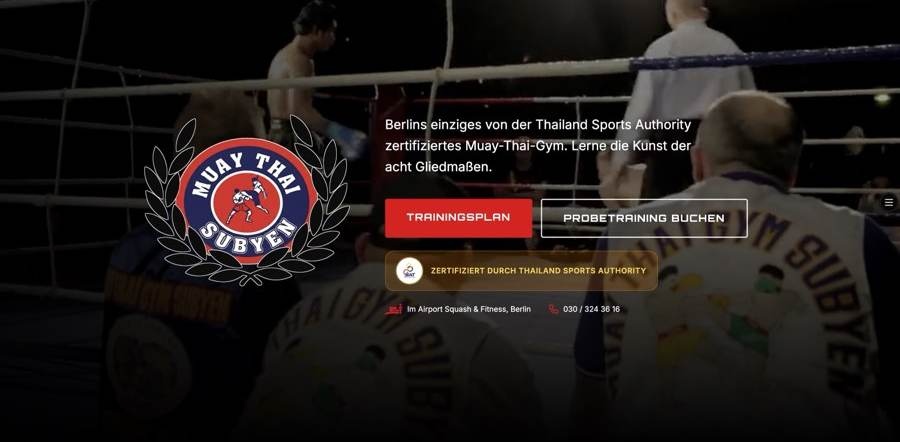
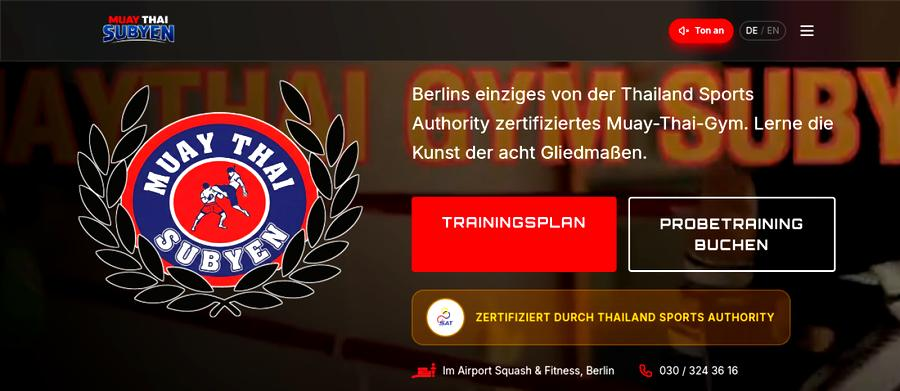
FAQ-Hoehe, Footer-Umbruch, Subyen-Screenshot, CTA mobil
- FAQ: Antworthoehe wird jetzt per ResizeObserver gemessen statt beim
  ersten Render aus scrollHeight geraten (war dort 0 -> Antwort blieb zu).
- Footer: untereinander auf schmalen Viewports statt gequetscht.
- Subyen-Screenshot neu aus Nav + Textbereich, Kontrast/Saettigung
  angehoben (war blass und zeigte vor allem Video-Matsch).
- CTA-Headline: leading-none + negatives tracking schnitt auf Mobil
  den letzten Buchstaben ab.

diff --git a/App.tsx b/App.tsx
@@ -732,7 +732,7 @@ const App: React.FC = () => {
         {/* CTA */}
         <section id="kontakt" className="px-6 md:px-12 border-b border-line bg-accent text-ink py-16 md:py-24">
           <div ref={ctaRef} className="reveal flex justify-between items-center gap-10 flex-wrap">
-            <h2 className="font-syne font-extrabold text-[clamp(44px,6vw,78px)] leading-none uppercase tracking-[-0.02em]">
+            <h2 className="font-syne font-extrabold text-[clamp(38px,6vw,78px)] leading-[1.04] uppercase tracking-[-0.015em] break-words max-w-full">
               Bereit<br />loszulegen?
             </h2>
             <div className="max-w-[380px]">
@@ -751,9 +751,9 @@ const App: React.FC = () => {
         </section>
 
         {/* Footer */}
-        <footer className="px-6 md:px-12 flex justify-between items-center gap-5 flex-wrap py-6 font-mono text-[13px] text-muted uppercase">
-          <div>JPR Studio ist eine Marke der JPR Consulting GmbH · Letteallee 91 · 13409 Berlin</div>
-          <div className="flex gap-6 items-center flex-wrap">
+        <footer className="px-6 md:px-12 flex flex-col md:flex-row md:justify-between md:items-center gap-5 py-8 font-mono text-[13px] text-muted uppercase">
+          <div className="leading-[1.7] normal-case md:uppercase">JPR Studio ist eine Marke der JPR Consulting GmbH · Letteallee 91 · 13409 Berlin</div>
+          <div className="flex gap-x-6 gap-y-3 items-center flex-wrap">
             <button onClick={scrollToTop} className="text-muted hover:text-accent transition-colors">Nach oben</button>
             <button onClick={() => navigate('BLOG')} className="text-muted hover:text-accent transition-colors">Blog</button>
             <button onClick={() => navigate('IMPRINT')} className="text-muted hover:text-accent transition-colors">Impressum</button>
@@ -860,6 +860,20 @@ const AboutText: React.FC = () => {
 /** FAQ-Akkordeon-Item (+ dreht zu × via rotate 45deg, max-height-Transition). */
 const FaqItem: React.FC<{ q: string; a: string; isOpen: boolean; onToggle: () => void }> = ({ q, a, isOpen, onToggle }) => {
   const contentRef = useRef<HTMLDivElement>(null);
+  // Hoehe messen statt beim ersten Render zu raten: scrollHeight ist vor dem
+  // Layout 0, wodurch die Antwort zugeklappt blieb. Auch bei Resize neu messen.
+  const [height, setHeight] = useState(0);
+  useEffect(() => {
+    const el = contentRef.current;
+    if (!el) return;
+    const measure = () => setHeight(el.scrollHeight);
+    measure();
+    const ro = new ResizeObserver(measure);
+    ro.observe(el);
+    if (document.fonts?.ready) document.fonts.ready.then(measure);
+    return () => ro.disconnect();
+  }, [a]);
+
   return (
     <div className="border-b border-line">
       <button
@@ -877,7 +891,7 @@ const FaqItem: React.FC<{ q: string; a: string; isOpen: boolean; onToggle: () =>
       </button>
       <div
         className="overflow-hidden transition-[max-height] duration-500 ease-[cubic-bezier(.19,1,.22,1)]"
-        style={{ maxHeight: isOpen ? `${contentRef.current?.scrollHeight ?? 500}px` : '0px' }}
+        style={{ maxHeight: isOpen ? `${height || 600}px` : '0px' }}
       >
         <div ref={contentRef}>
           <p className="pb-[26px] pr-10 text-[15px] leading-[1.7] text-muted max-w-[760px]">{a}</p>

diff --git a/index.css b/index.css
@@ -178,6 +178,7 @@
   /* ueber dem Inhalt (Sektionen bringen eigene bg-ink-Flaechen mit),
      aber unter der fixierten Navigation (z-50) */
   z-index: 40;
+  will-change: transform;
 }
 
 /* Raster: 64px-Gitter aus Hairlines, zum unteren Rand hin ausblendend */
